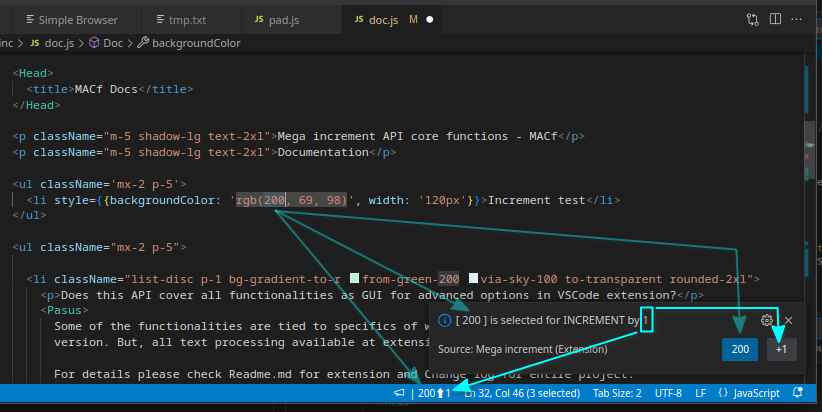
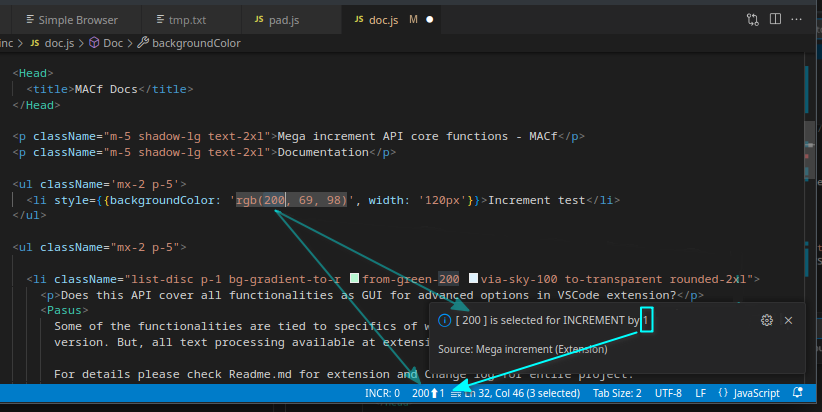
right click & buttons, settings, videos

diff --git a/README.md b/README.md
@@ -12,7 +12,7 @@ Mega-increment extension is intended to ease parallel independent incrementation
 - GUI Advanced Increment:
 ![howitworks](/media/gui-gif1.gif)
 
-There are also example videos on YouTube for [editor](https://youtu.be/URxZXJn2n1w) and [GUI Advanced Increment](https://youtu.be/YPACNYr_03A).
+There are also example videos on YouTube for [editor](https://youtu.be/75dgl6m22J0) and [GUI Advanced Increment](https://youtu.be/oWDa46vQArk).
 
 If you have found a `bug` or other issue or you have `feature request` please write here: https://github.com/vladanan/mega-increment/issues  
 
@@ -74,39 +74,41 @@ All commands are available in VSCode standard Command Palette (Linux/Windows: Ct
 
 
 1) In the editor select part of text on line.
-2) Then issue **add** command (Ctrl+Alt+8 / ⌥⌘8) to add it for incrementing.
+2) Then issue **add** command (Ctrl+Alt+8 / ⌥ ⌘ 8) to add it for incrementing.  
+  ***Tip:*** *You can also right click on selected text and choose Mega: Add selection for increment.*
 3) Choose the type of text which indicates to the incrementer how to treat selected text (available type options depend on what is selected).
 
-    ![howitworks](/media/howitworks123.png)
+    ![howitworks123](/media/howitworks123.png)
 
 4) Choose stepping for incrementation, default steppiing is set to **1**:
 
-    ![howitworks](/media/howitworks4a.png)
+    ![howitworks4a](/media/howitworks4a.png)
 
     After entering your desired stepping and hitting Enter you will get notification about new selection added and also Status bar info about it:
 
-    ![howitworks](/media/howitworks4b.png)
+    ![howitworks4b](/media/howitworks4b.png)
 
     You can also click on Status info bar and get more information about current selections.
-    In settings one can disable all notifications except for overlapping selection(s).
+    In extension settings one can disable all notifications except for overlapping selection(s).
 
-5) Issue command for **increment** (Ctrl+Alt+U / ⌥⌘U) 9 times and then below the active line new lines will appear with selected part incremented.  
+5) Issue command for **increment** (Ctrl+Alt+U / ⌥ ⌘ U) 9 times and then below the active line new lines will appear with selected part incremented.  
+  ***Tip:*** *You can also click on Status bar INCR button.*
 
-    ![howitworks](/media/howitworks5.png)
+    ![howitworks5](/media/howitworks5.png)
 
-6) To delete current selection(s) hit Ctrl+Alt+0 / ⇧⌘0.
+6) To delete current selection(s) hit Ctrl+Alt+0 / ⇧ ⌘ 0.  
+  ***Tip:*** *You can also click on Status bar Clear all selections button: ![clear-all](/media/clear-all.png) .*
 
-    ![howitworks](/media/howitworks6.png)
+    ![howitworks6](/media/howitworks6.png)
 
 **That's it!**  
 
 Let's see that in motion:
 
-![howitworks](/media/basic02c.gif)
+![basic02c](/media/basic02c.gif)
 
 
 [Back to Contents](#Contents)
-
 
 
 
@@ -135,12 +137,12 @@ Let's see that in motion:
     ```
 
   + Lets see that in real:  
-    ![example1](/media/example1a.png)  
-    ![example1](/media/example1b.png)
+    ![example1a](/media/example1a.png)  
+    ![example1b](/media/example1b.png)
 
 - Remember:
-  + When you want to **delete** chosen selection(s) and start over again then issue **clear** command (Ctrl+Alt+0).
-  + If you want to try the same thing in Advanced GUI issue **advanced increment** command (Ctrl+Alt+9).
+  + When you want to **delete** chosen selection(s) and start over again then issue **clear** command (Ctrl+Alt+0) or click on Status bar Clear all selections button ![clear-all](/media/clear-all.png) .
+  + If you want to try the same thing in **Advanced GUI** issue advanced increment command (Ctrl+Alt+9) or right click on line and then click Mega: Advanced increment.
 
 - If you use decimal stepping on integer numbers i.e. inputting stepping of 0.333333 they will not turn in to floating point but instead they will be incremented every third time. If you input stepping of 0.25 increment will occur every fourth time, for 0.2 fifth and so on. This `fractional stepping` is available also for simple, date, time and enums.
 - Numbers with floating point are recognized by decimal point, so if you want 5 to be incremented by 0.2 you should write it as 5.0.
@@ -384,7 +386,7 @@ switch (year.selectedMonth) {
 ```
 - result:
 
-![howitworks](/media/example-enums.png)
+![example-enums](/media/example-enums.png)
 
 - So what happened with color attribute? Enum ["light", "", "dark"] went normally with stepping 1, but enum ["blue", "salmon", "cyan","gray", "green"] because of stepping 0.333333 changed `only once every third time` so for each color we get three variants of different saturation (light, normal, dark). This kind of `fractional stepping` we can also do with integer numbers, dateISO, timeISO and simple. Try it yourself.
 
@@ -446,11 +448,11 @@ Lets se how it looks on previous example with colors.
       + clipboard and
       + JSON array.
 
-  ![howitworks](/media/gui3.png)
+  ![gui3](/media/gui3.png)
 
 Let's see that in motion:
 
-  ![howitworks](/media/gui-gif1.gif)
+  ![gui-gif1](/media/gui-gif1.gif)
 
 [Back to Contents](#Contents)
 
@@ -522,7 +524,7 @@ Can this be done using AI? Yes but it would usually last longer and with uncerta
 
 
 ### Why GUI sections are divided and named Basic, JS, C?
-![nodonations](/media/nodonations2.png)
+![nodonations2](/media/nodonations2.png)
 
 
 [Back to Contents](#Contents)
@@ -536,6 +538,9 @@ Can this be done using AI? Yes but it would usually last longer and with uncerta
 Windows 10:
 - With default shortcut for add selection Ctrl+Alt+8 an apostrophe is written and selected text is deleted. The same can happen wiht Ctrl+Alt+9 or 0. After several shortcut combinations tested Ctrl+Alt+J works well.
 - When items are selected with `Enter` in menu in editor sometimes `Enter` is written in editor itself so selection iz overwritten and new line is inserted. After Ctrl+Z `Undo` all works well.
+
+Mac:
+- After making selections and change window (i.e. open Safari) and them perform increments position of incremented lines is moved from where they should be. Sometimes this can happen even without changing application window. It appears that for some reason MacOS is messing with cursor position for Visual Studio Code.
 
 [Back to Contents](#Contents)
 

diff --git a/CHANGELOG.md b/CHANGELOG.md
@@ -4,7 +4,22 @@ All notable changes to the "mega-increment" extension will be documented in this
 File is structured by following recommendations from [Keep a Changelog](http://keepachangelog.com/).  
 Extension versions follow [Semantic Versioning](https://semver.org/).
 
-## [1.0.9] - 2024-02-04
+
+
+## [1.1.0] - 2024-02-06
+
+### Added
+- Right click for Add selection and Advanced GUI.
+- Click on Status bar for Increment and Clear selections.
+- Readme additions and fixes.
+
+### Fixed
+- No need to restart VSCode/extension for some settings to take effect.
+- YouTube videos changed from mp4 to mpg for slightly better quality.
+
+
+
+## [1.0.9] - 2024-02-05
 
 ### Added
 - New logo.
